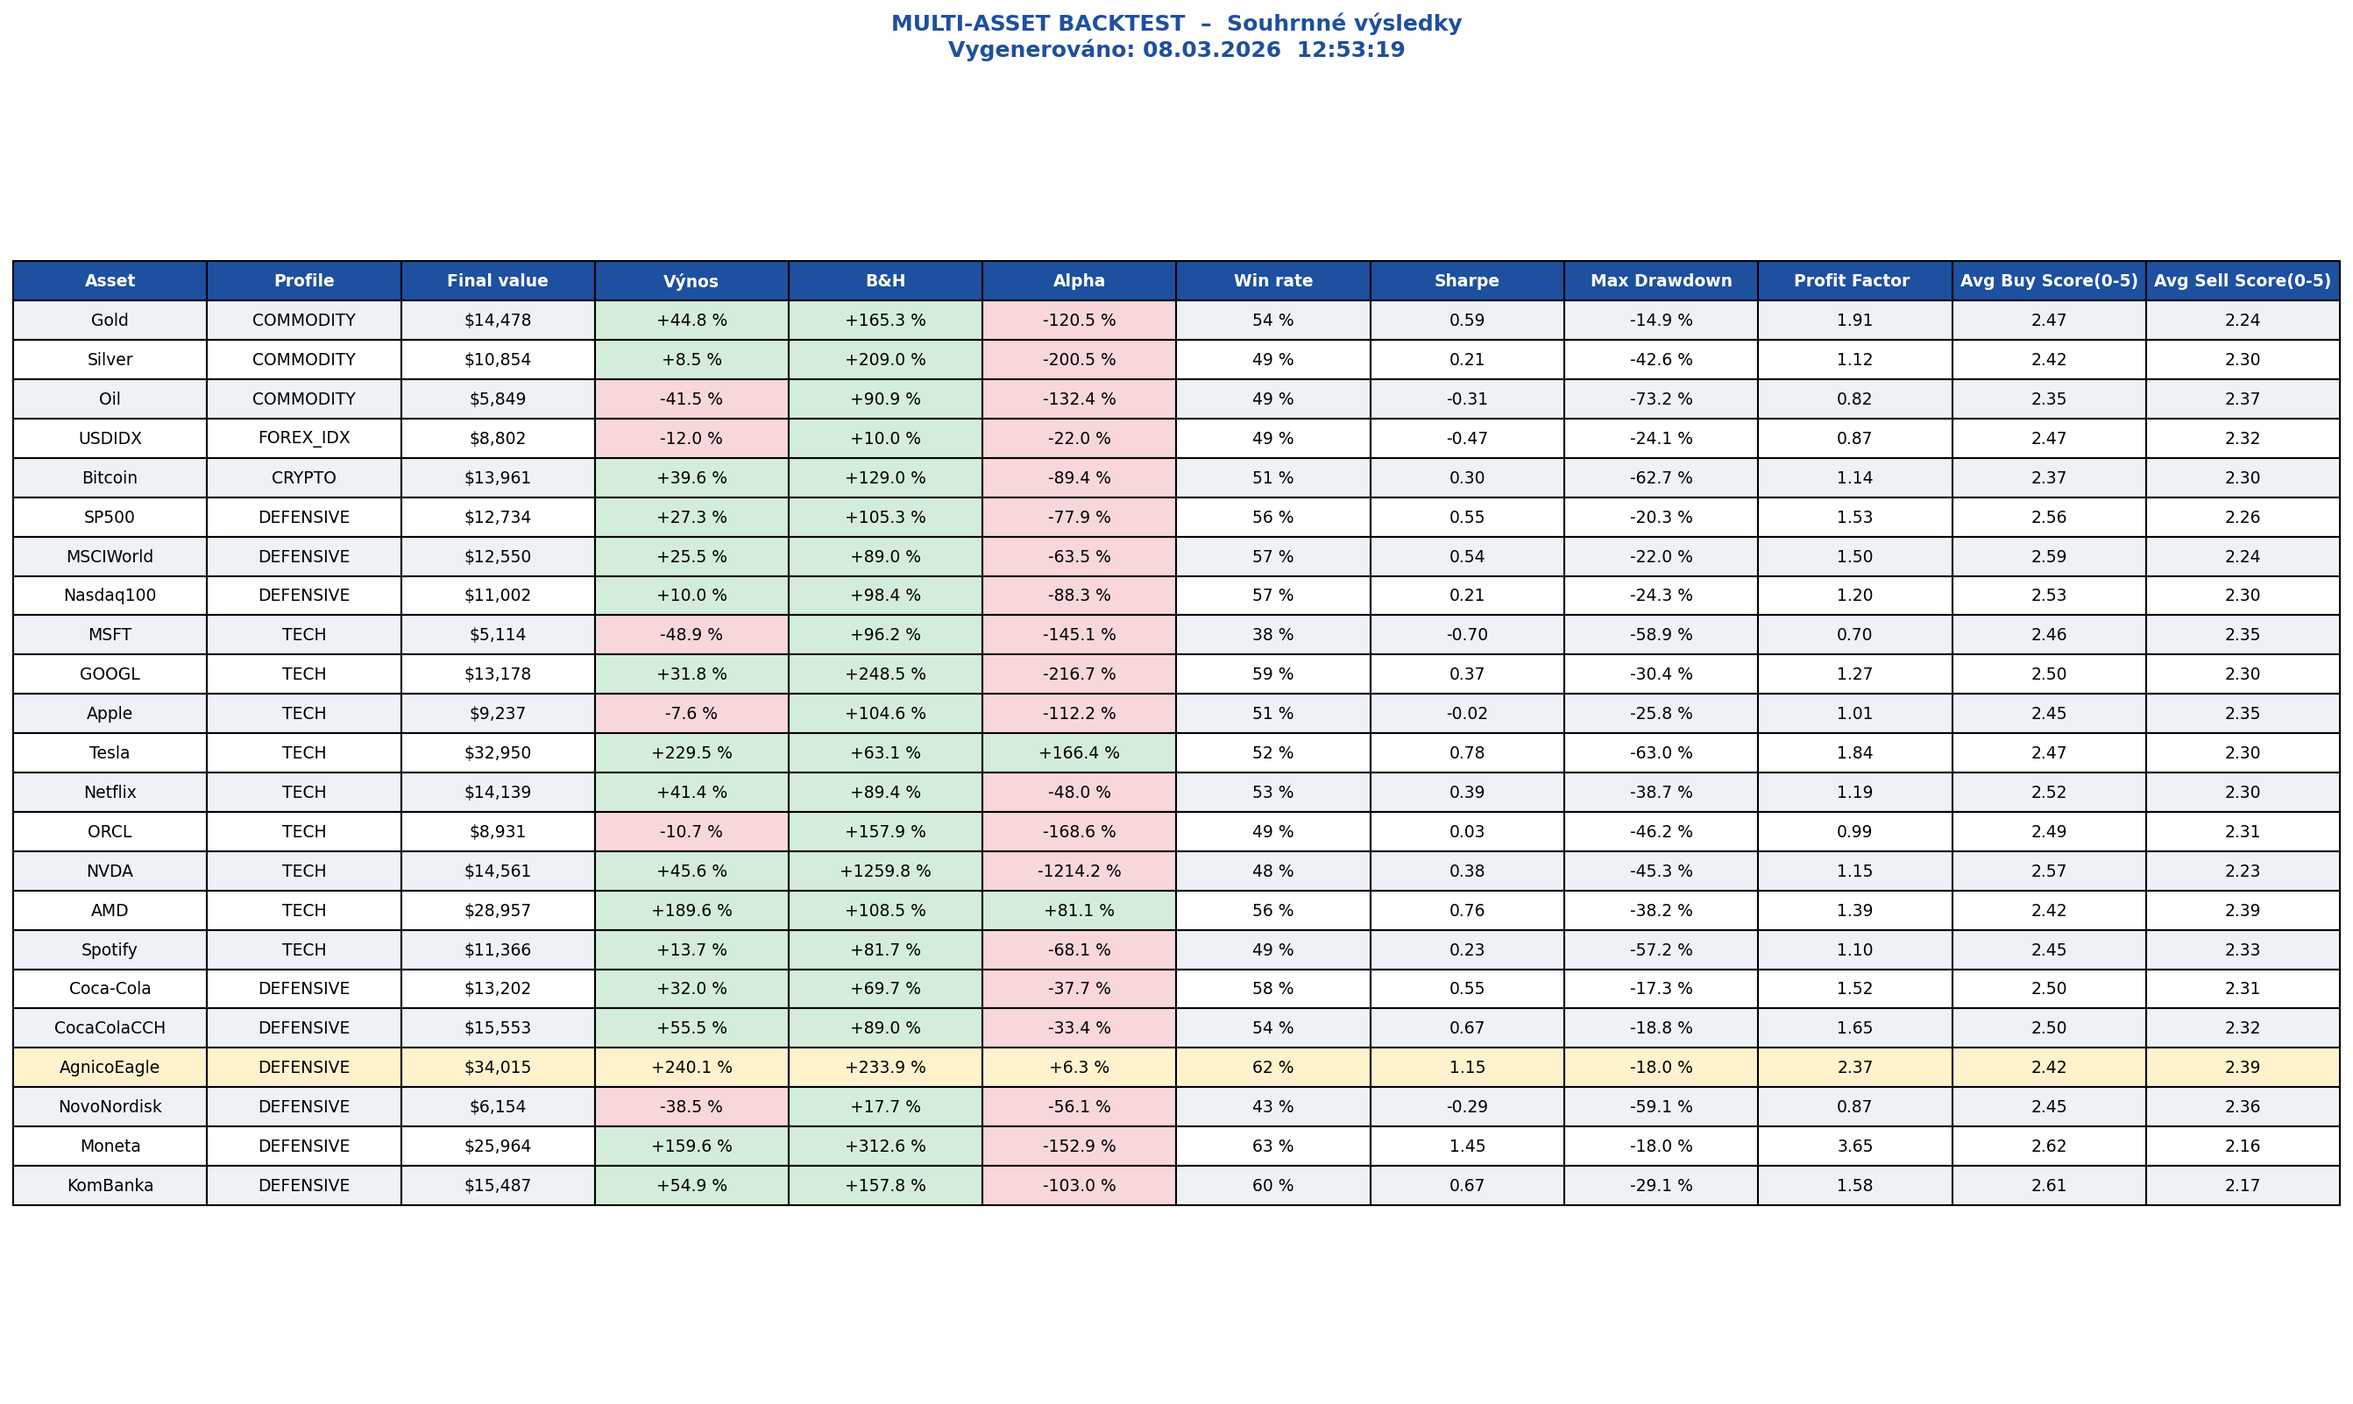
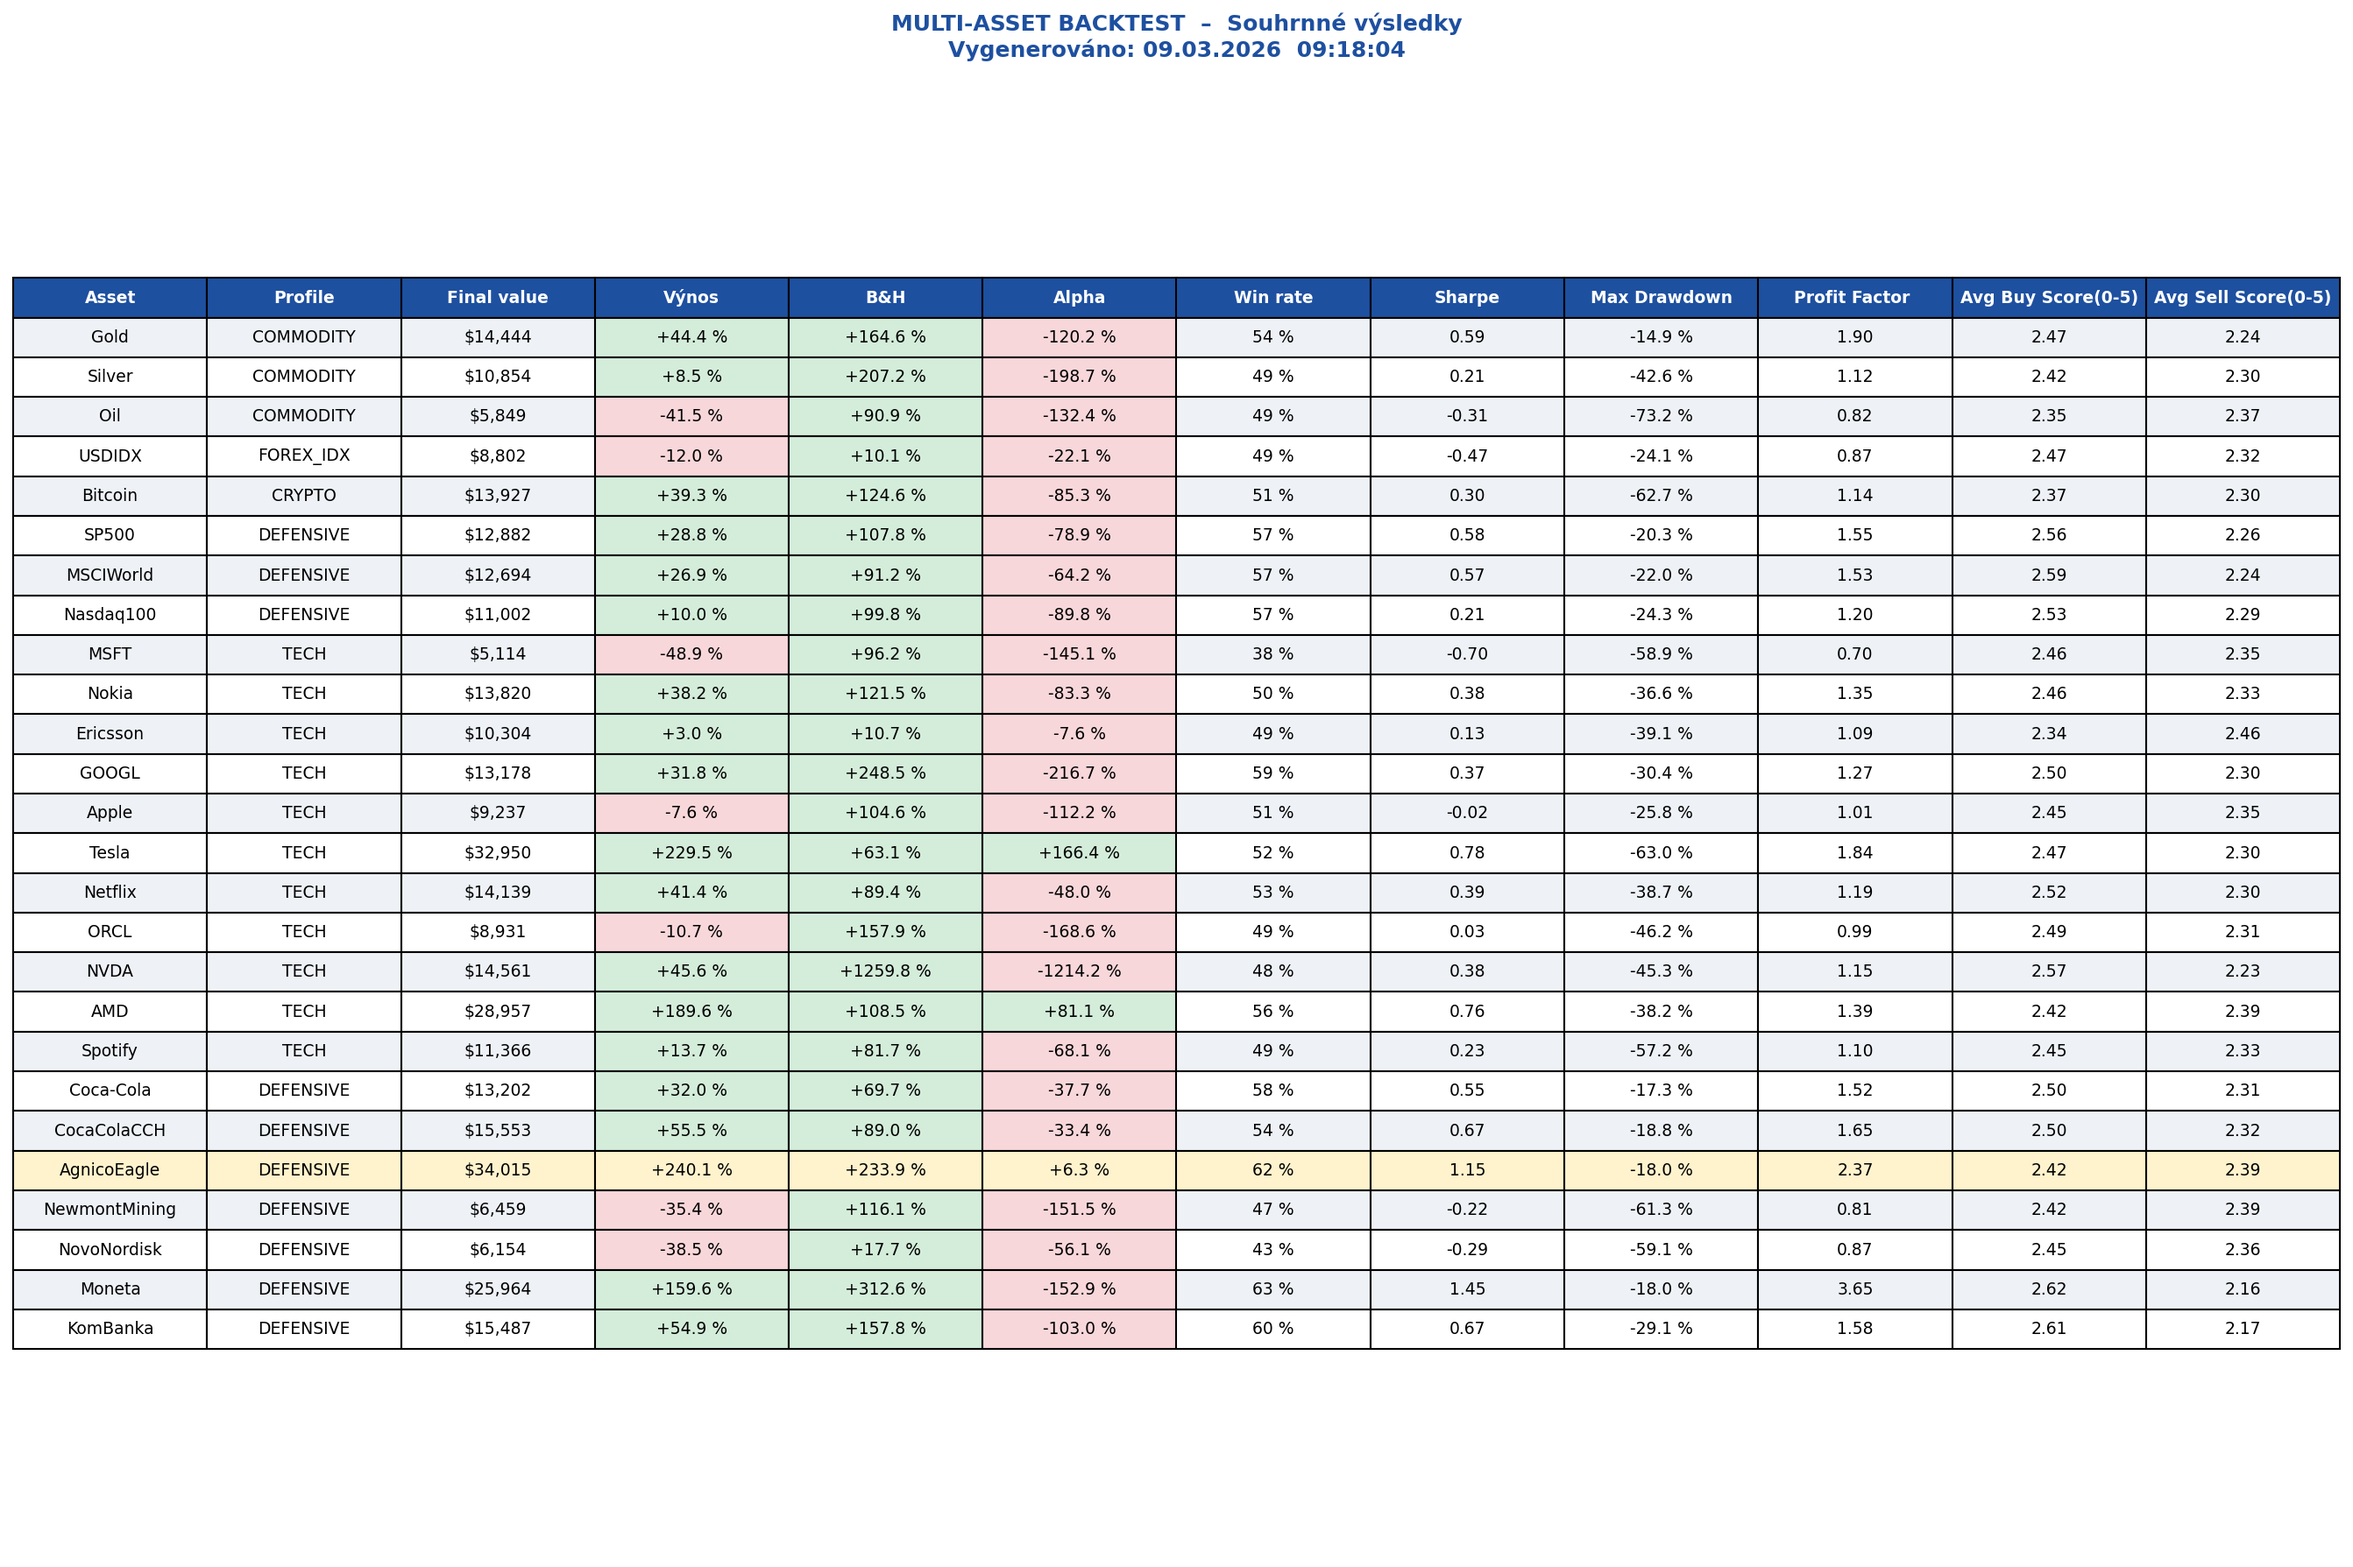
New assets update

Changed region(s): [[0.0, 0.156, 1.0, 0.8734], [0.4019, 0.0, 0.6182, 0.0624]]

diff --git a/trading_backtest_script.py b/trading_backtest_script.py
@@ -24,13 +24,15 @@ from datetime import datetime, timedelta
 # Configuration
 ASSETS = {
     # Komodity & futures
-    "Gold": "GC=F", "Silver": "SI=F", "Oil": "CL=F", "USDIDX": "DX-Y.NYB", "Bitcoin": "BTC-USD",
+    "Gold": "GC=F", "Silver": "SI=F", "Oil": "CL=F", "USDIDX": "DX-Y.NYB", 
+    # Krypto
+    "Bitcoin": "BTC-USD",
     # ETF
     "SP500": "SXR8.DE", "MSCIWorld": "EUNL.DE", "Nasdaq100": "CNDX.L",
     # Tech akcie
-    "MSFT": "MSFT", "GOOGL": "GOOGL", "Apple": "AAPL", "Tesla": "TSLA", "Netflix": "NFLX", "ORCL": "ORCL", "NVDA": "NVDA", "AMD": "AMD", "Spotify": "SPOT",
+    "MSFT": "MSFT", "Nokia": "NOK", "Ericsson": "ERIC", "GOOGL": "GOOGL", "Apple": "AAPL", "Tesla": "TSLA", "Netflix": "NFLX", "ORCL": "ORCL", "NVDA": "NVDA", "AMD": "AMD", "Spotify": "SPOT",
     # Defenzivní akcie
-    "Coca-Cola": "KO", "CocaColaCCH": "CCH.L", "AgnicoEagle": "AEM", "NovoNordisk": "NVO", "Moneta": "MONET.PR", "KomBanka": "KOMB.PR",
+    "Coca-Cola": "KO", "CocaColaCCH": "CCH.L", "AgnicoEagle": "AEM", "NewmontMining": "NEM", "NovoNordisk": "NVO", "Moneta": "MONET.PR", "KomBanka": "KOMB.PR",
 }
 
 START_DATE = "2021-01-01"; END_DATE = datetime.today().strftime("%Y-%m-%d")
@@ -63,10 +65,10 @@ PROFILES = {
 # Přiřazení profilu každému assetu
 ASSET_PROFILES = {
     "Gold": "COMMODITY", "Silver": "COMMODITY", "Oil": "COMMODITY", "USDIDX": "FOREX_IDX", "Bitcoin": "CRYPTO", "SP500": "DEFENSIVE", "MSCIWorld": "DEFENSIVE", "Nasdaq100": "DEFENSIVE", 
-    "MSFT": "TECH", "GOOGL": "TECH", "Apple": "TECH", "Tesla": "TECH", "Netflix": "TECH", "Spotify": "TECH", "ORCL": "TECH", "NVDA": "TECH", "AMD": "TECH", 
-    "Coca-Cola": "DEFENSIVE", "CocaColaCCH": "DEFENSIVE", "NovoNordisk": "DEFENSIVE", "AgnicoEagle": "DEFENSIVE", "Moneta": "DEFENSIVE", "KomBanka": "DEFENSIVE",
+    "MSFT": "TECH", "Nokia": "TECH", "Ericsson": "TECH", "GOOGL": "TECH", "Apple": "TECH", "Tesla": "TECH", "Netflix": "TECH", "Spotify": "TECH", "ORCL": "TECH", "NVDA": "TECH", "AMD": "TECH", 
+    "Coca-Cola": "DEFENSIVE", "CocaColaCCH": "DEFENSIVE", "NovoNordisk": "DEFENSIVE", "AgnicoEagle": "DEFENSIVE", "NewmontMining": "DEFENSIVE", "Moneta": "DEFENSIVE", "KomBanka": "DEFENSIVE",
 }
-
+0
 #  VÝPOČET INDIKÁTORŮ - MA Crossover, RSI, Bollinger Bands, MACD, ATR
 def compute_indicators(df: pd.DataFrame, p: dict) -> pd.DataFrame:
     c = df["Close"].astype(float)
